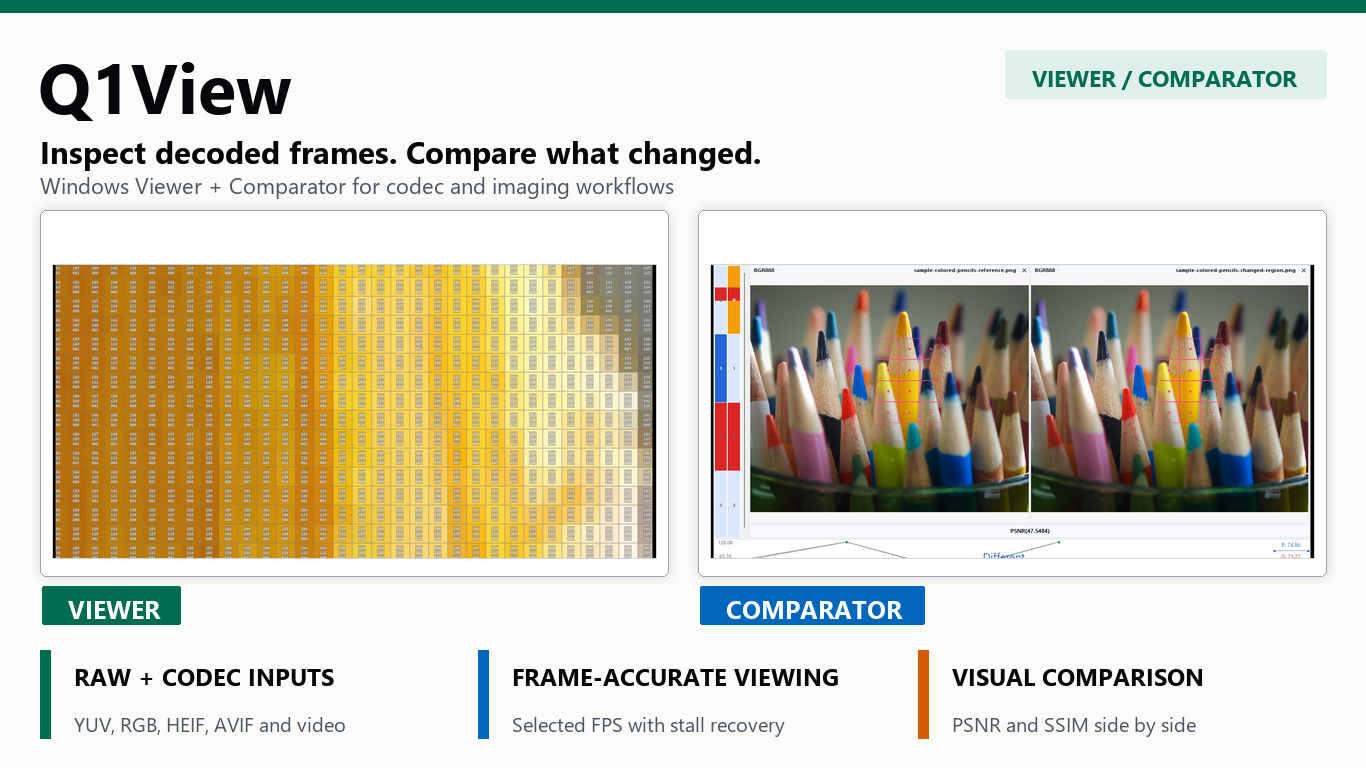
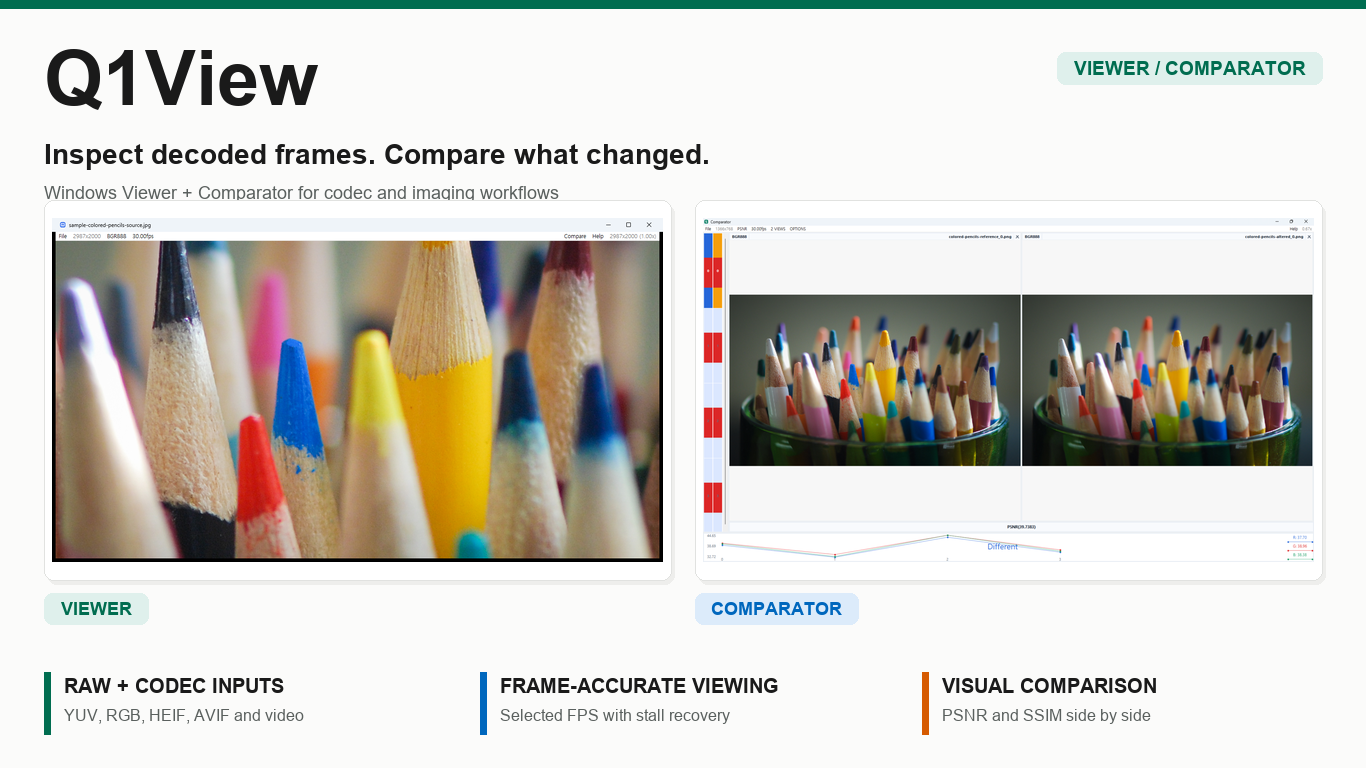
docs: refresh Store/README screenshots from the latest build (#68)
Recapture the three listing images from the current Viewer and
Comparator:
- viewer-pixel-inspection: a zoomed, color-rich view of the colored
  pencils instead of the previous single-hue pixel-value grid.
- comparator-quality-analysis: side-by-side PNG comparison from the
  current Comparator, with the per-frame PSNR curve and localized diff.
- q1view-overview: recomposed from the two new screenshots, keeping the
  original layout and text.

Update the README alt text and the Store submission note that described
the Viewer shot as a pixel grid.

diff --git a/README.md b/README.md
@@ -85,7 +85,7 @@ Open an image, raw dump, sequence, or video; zoom down to pixels, inspect
 coordinates and values, step through frames with frame/time progress, or link
 multiple Viewer windows.
 
-![Viewer zoomed into a real-world image with pixel grid](docs/images/viewer-pixel-inspection.png)
+![Viewer zoomed into a color-rich real-world image](docs/images/viewer-pixel-inspection.png)
 
 ### Comparator
 

diff --git a/docs/STORE_SUBMISSION.md b/docs/STORE_SUBMISSION.md
@@ -115,7 +115,7 @@ Recommended set:
 
 | Screenshot | Resolution | Content |
 | --- | --- | --- |
-| Viewer — pixel inspection | 1366 × 768 | `docs/images/viewer-pixel-inspection.png` — high-zoom view showing the pixel grid |
+| Viewer — image detail | 1366 × 768 | `docs/images/viewer-pixel-inspection.png` — zoomed view of a real-world image with rich color detail |
 | Comparator — quality analysis | 1366 × 768 | `docs/images/comparator-quality-analysis.png` — side-by-side PNG comparison with PSNR and localized diff grid |
 | Viewer — video frame | 1920 × 1080 | Video playback with seek bar visible |
 | Viewer — Sync Input | 1920 × 1080 | Two Viewer windows synchronized |